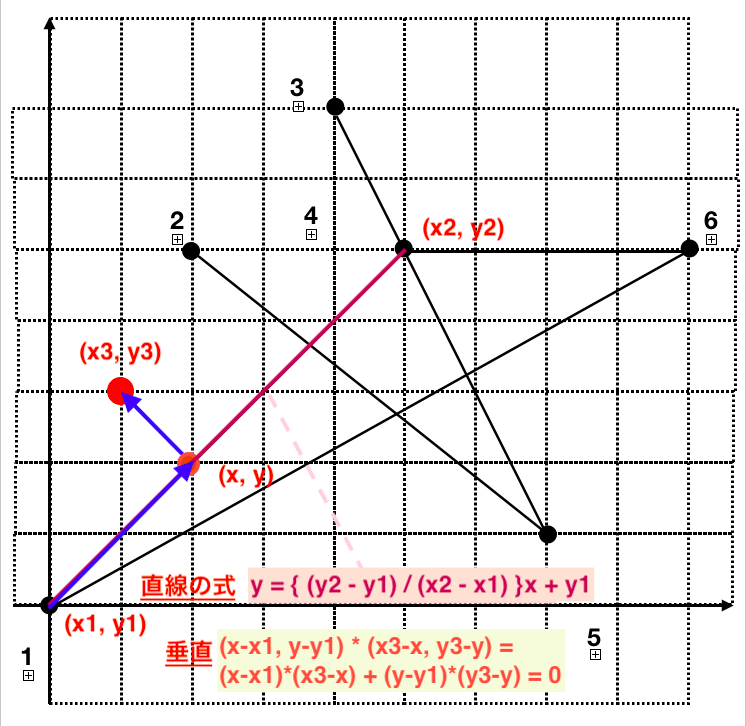
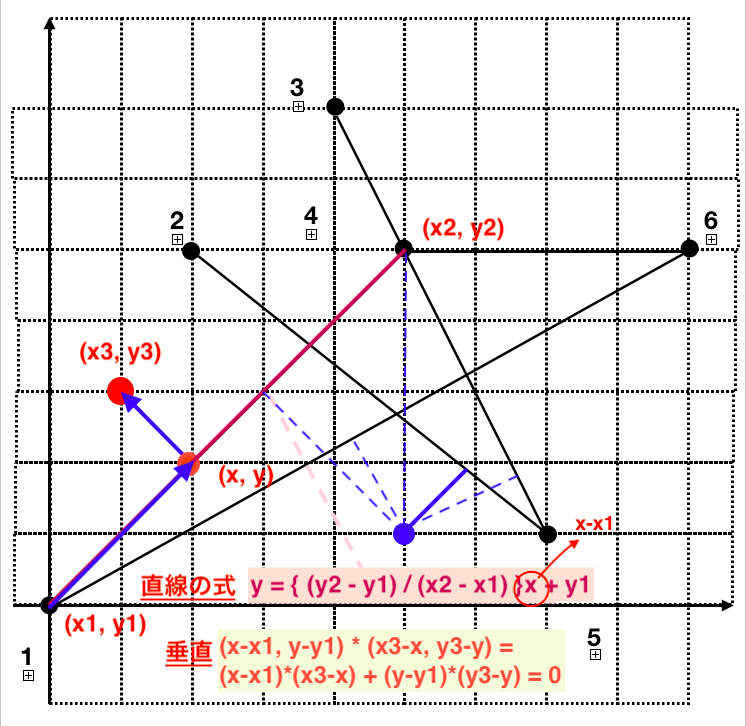
[Fix] 式が間違っていたので直したが、少し結果が異なる

diff --git a/Phase2/Ex7/phase2_7_func_newRoad.c b/Phase2/Ex7/phase2_7_func_newRoad.c
@@ -27,12 +27,10 @@ int searchPointIndex(point_t* point, int numberOfPoint, int id) {
  */
 point_t suggestNewRoad(point_t *point, int road[][2], int n, int m, point_t newPoint) {
   int i;
-  double tmpX;
   double x1, y1, x2, y2, x3, y3;
-  double a, b, c;  // 方程式の係数
-  double discriminant;  // 判別式
   int pointPIndex, pointQIndex;
-  
+
+  double coef1, coef2;
   double min;
   int minIndex;
 
@@ -59,41 +57,29 @@ point_t suggestNewRoad(point_t *point, int road[][2], int n, int m, point_t newP
     // x2, y2 は 線分端点Qの座標
     x2 = point[pointQIndex].x;
     y2 = point[pointQIndex].y;
-    
-    // 方程式の係数
-    a = ( ((x2 - x1)*(x2 - x1)) + ((y2 - y1)*(y2 - y1)) ) / ((x2 - x1) * (x2 - x1));
-    b = -1 * ( ( (x2 - x1)*(x3 - x1) + (y2 - y1)*(y3 - y1) ) / (x2 - x1) );
-    c = x1 * x3;
 
-    // 判別式
-    discriminant = b * b - (4 * a * c);
-    if(discriminant < 0) {
-      x[i] = INF;
-      y[i] = INF;
-      distance[i] = INF;
-      continue;
-    }
+    coef1 = pow(x2-x1, 2.0);
+    coef2 = pow(y2-y1, 2.0);
+    
     // 方程式を解く
-    tmpX = ( -b + sqrt(discriminant) ) / (2 * a);
-    printf("tmpX: %f\n", tmpX);
-    if((tmpX > x1) && (tmpX < x2)) tmpX = ( -b - sqrt(discriminant) ) / (2 * a);
-    printf("tmpX2: %f\n", tmpX);
-    x[i] = tmpX;
-    y[i] = ( ( (y2 - y1)/(x2 - x1) ) * tmpX ) + y1;
+    x[i] = (1 / (coef1 + coef2)) * ( coef1 * x3 + coef2 * x1 - (x2-x1)*(y2-y1)*(y1-y3) );
+    y[i] = ( ( (y2 - y1)/(x2 - x1) ) * (x[i] - x1) ) + y1;
     // 距離を求める
     distance[i] = sqrt(fabs( (x3 - x[i])*(x3 - x[i]) + (y3 - y[i])*(y3 - y[i]) ));
   }
 
+  /*
   // test
   for(i = 1; i <= m; i++) {
     printf("distance: %f, x: %f, y: %f\n", distance[i], x[i], y[i]);
   }
+  */
 
   // 最短距離の座標を返す
   min = INF;
   minIndex = 0;
   for(i = 1; i <= m; i++) {
-    if(min > distance[i]) {
+    if( (min > distance[i]) && (x[i] != x3) && (y[i] != y3) ) {
       min = distance[i];
       minIndex = i;
     }
